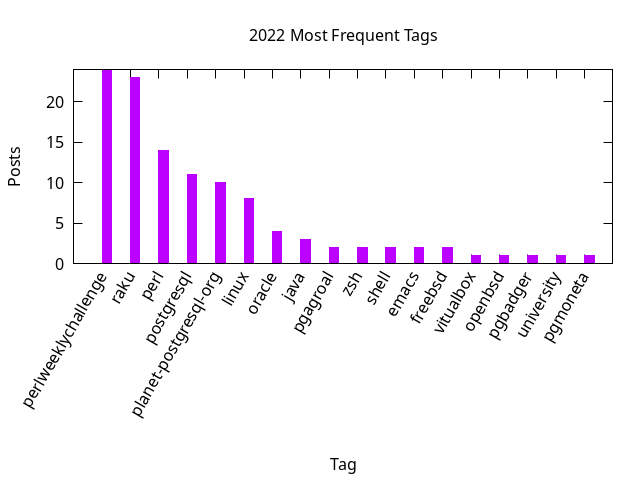
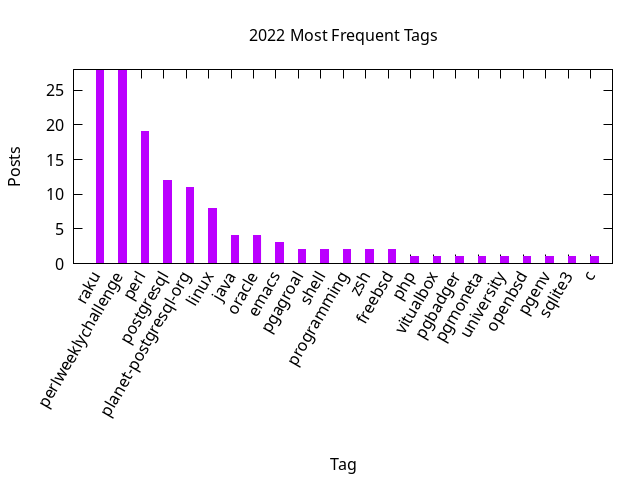
Stats update

Changed region(s): [[0.0312, 0.125, 0.9375, 0.8438], [0.1562, 0.75, 0.25, 0.875], [0.4375, 0.7188, 0.4688, 0.7812]]

diff --git a/_includes/stats/2022.md b/_includes/stats/2022.md
@@ -1,28 +1,33 @@
 <a name="2022" />
 ## 2022 (work in progress)
 
-**47 total posts** have been written on 2022.
-There have been *18 different tags* used, the most
+**55 total posts** have been written on 2022.
+There have been *23 different tags* used, the most
 popular being (sorted by number of posts):
  
-- *perlweeklychallenge* (24 posts)  
-- *raku* (23 posts)  
-- *perl* (14 posts)  
-- *postgresql* (11 posts)  
-- *planet-postgresql-org* (10 posts)  
+- *raku* (28 posts)  
+- *perlweeklychallenge* (28 posts)  
+- *perl* (19 posts)  
+- *postgresql* (12 posts)  
+- *planet-postgresql-org* (11 posts)  
 - *linux* (8 posts)  
+- *java* (4 posts)  
 - *oracle* (4 posts)  
-- *java* (3 posts)  
+- *emacs* (3 posts)  
 - *pgagroal* (2 posts)  
-- *zsh* (2 posts)  
 - *shell* (2 posts)  
-- *emacs* (2 posts)  
+- *programming* (2 posts)  
+- *zsh* (2 posts)  
 - *freebsd* (2 posts)  
+- *php* (1 posts)  
 - *vitualbox* (1 posts)  
-- *openbsd* (1 posts)  
 - *pgbadger* (1 posts)  
+- *pgmoneta* (1 posts)  
 - *university* (1 posts)  
-- *pgmoneta* (1 posts).<br/>
+- *openbsd* (1 posts)  
+- *pgenv* (1 posts)  
+- *sqlite3* (1 posts)  
+- *c* (1 posts).<br/>
 <br/>
 The following is the overall 2022 post ratio by month:
 <br/>
@@ -41,7 +46,7 @@ The following is the overall 2022 post ratio by tag (showing max 30 tags):
 
 <div align="right">
 <small>
-Last generated on 2022-05-09 at 12:37
+Last generated on 2022-06-06 at 15:37
 </small>
 </div>
 
